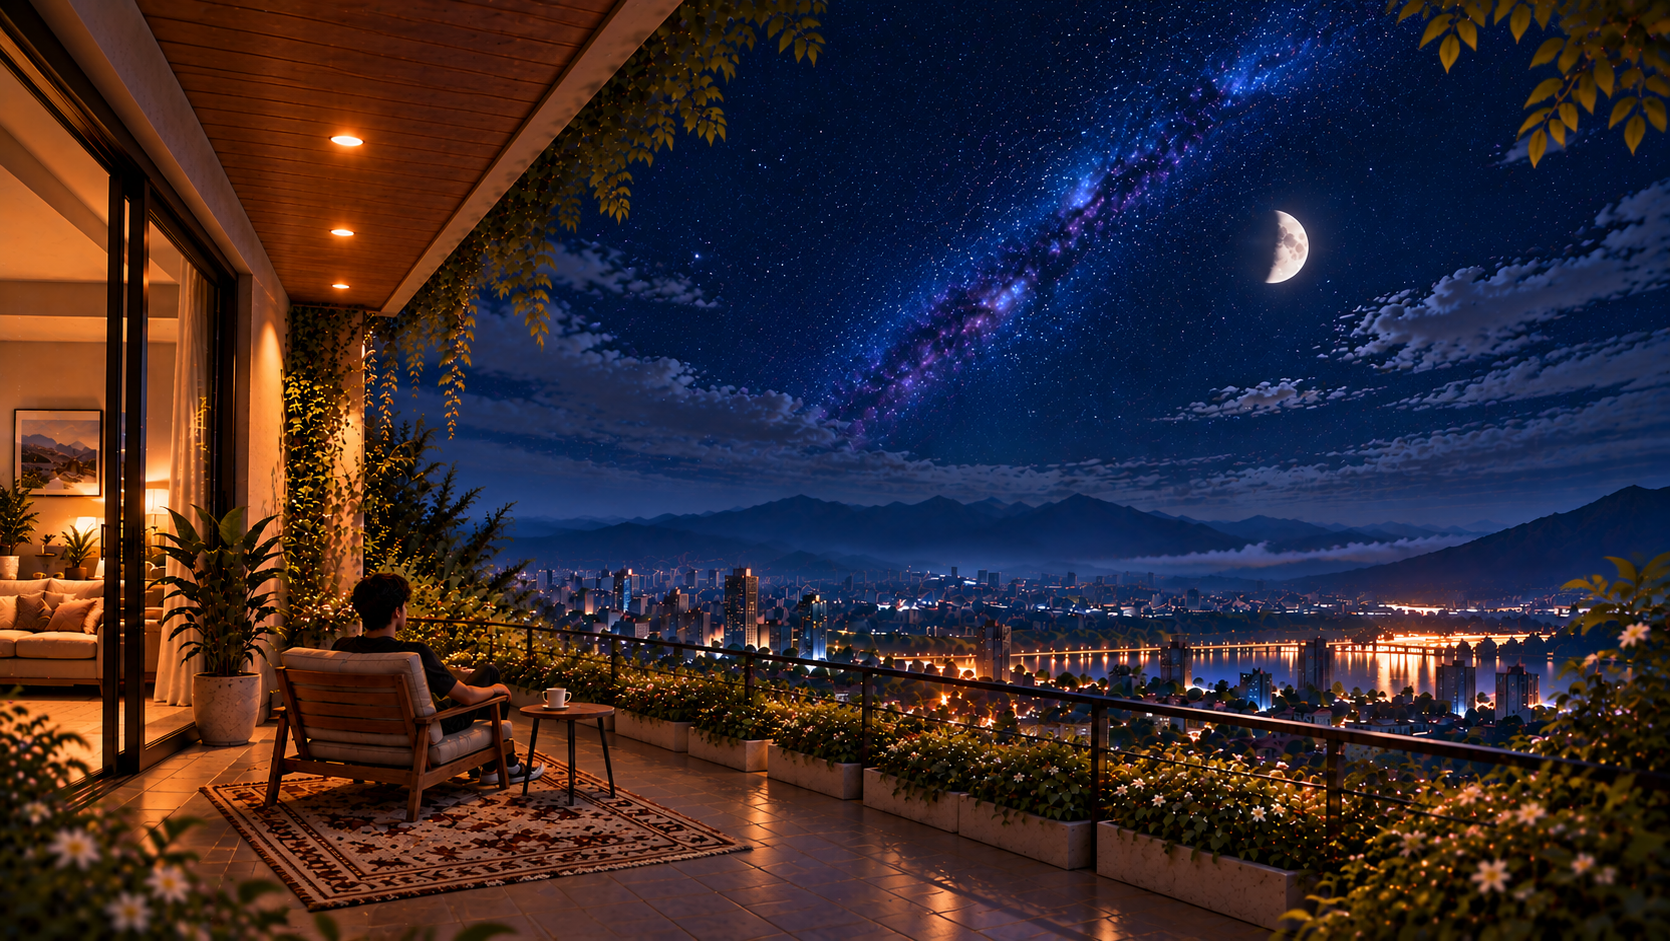
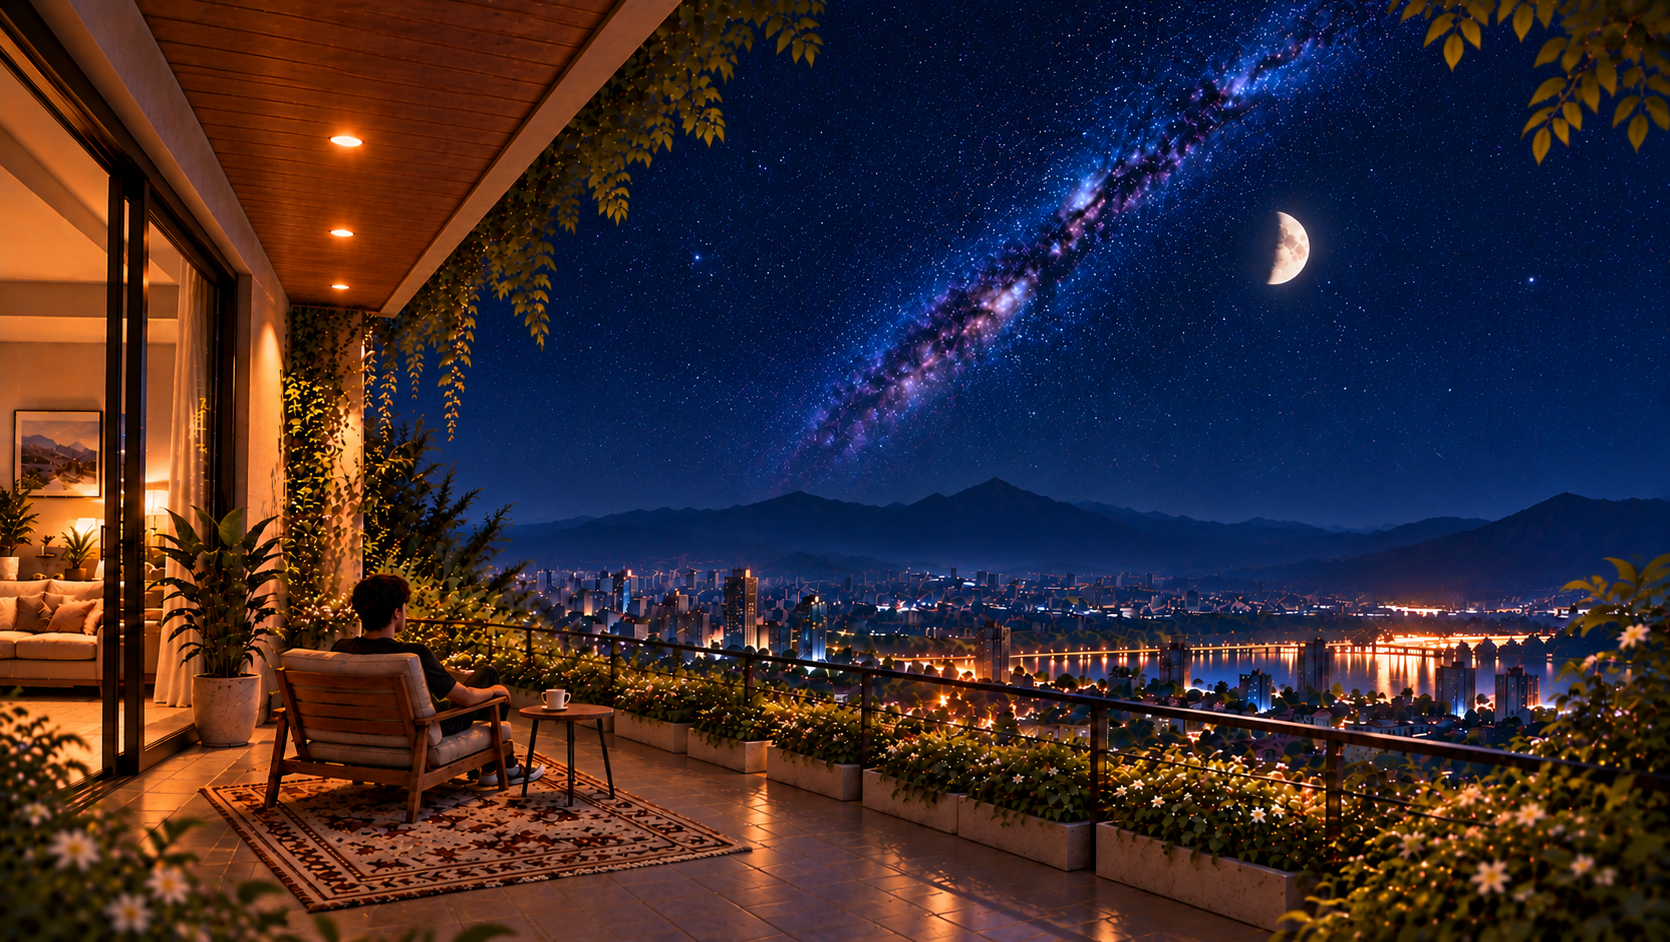
Add rainy & thunderstorm weather themes

diff --git a/dist/output.css b/dist/output.css
@@ -226,74 +226,158 @@ body {
 }
 .theme-clear-sunrise {
   background-image: url('../assets/images/ClearSunriseMobileBg.png');
-  @media (width >= 64rem) {
+  @media (width >= 80rem) {
     background-image: url('../assets/images/ClearSunriseDesktopBg.png');
   }
 }
 .theme-clear-morning {
   background-image: url('../assets/images/ClearMorningMobileBg.png');
-  @media (width >= 64rem) {
+  @media (width >= 80rem) {
     background-image: url('../assets/images/ClearMorningDesktopBg.png');
   }
 }
 .theme-clear-afternoon {
   background-image: url('../assets/images/ClearAfternoonMobileBg.png');
-  @media (width >= 64rem) {
-    background-image: url('../assets/images/ClearAfternoonDesktopBg.png');
+  @media (width >= 80rem) {
+    background-image: url('../assets/images/ClearAfternoonDesktopBg2.png');
   }
 }
 .theme-clear-evening {
   background-image: url('../assets/images/ClearEveningMobileBg.png');
-  @media (width >= 64rem) {
+  @media (width >= 80rem) {
     background-image: url('../assets/images/ClearEveningDesktopBg.png');
   }
 }
 .theme-clear-sunset {
   background-image: url('../assets/images/ClearSunsetMobileBg.png');
-  @media (width >= 64rem) {
+  @media (width >= 80rem) {
     background-image: url('../assets/images/ClearSunsetDesktopBg.png');
   }
 }
 .theme-clear-night {
   background-image: url('../assets/images/ClearNightMobileBG.png');
-  @media (width >= 64rem) {
+  @media (width >= 80rem) {
     background-image: url('../assets/images/ClearNightDesktopBg.png');
   }
 }
 .theme-cloudy-sunrise {
   background-image: url('../assets/images/CloudySunriseMobileBg.png');
-  @media (width >= 64rem) {
+  @media (width >= 80rem) {
     background-image: url('../assets/images/CloudySunriseDesktopBg.png');
   }
 }
 .theme-cloudy-morning {
   background-image: url('../assets/images/CloudyMorningMobileBg.png');
-  @media (width >= 64rem) {
+  @media (width >= 80rem) {
     background-image: url('../assets/images/CloudyMorningDesktopBg.png');
   }
 }
 .theme-cloudy-afternoon {
   background-image: url('../assets/images/CloudyAfternoonMobileBg.png');
-  @media (width >= 64rem) {
+  @media (width >= 80rem) {
     background-image: url('../assets/images/CloudyAfternoonDesktopBg.png');
   }
 }
 .theme-cloudy-evening {
   background-image: url('../assets/images/CloudyEveningMobileBg.png');
-  @media (width >= 64rem) {
+  @media (width >= 80rem) {
     background-image: url('../assets/images/CloudyEveningDesktopBg.png');
   }
 }
 .theme-cloudy-sunset {
   background-image: url('../assets/images/CloudySunsetMobileBg.png');
-  @media (width >= 64rem) {
+  @media (width >= 80rem) {
     background-image: url('../assets/images/CloudySunsetDesktopBg.png');
   }
 }
 .theme-cloudy-night {
   background-image: url('../assets/images/CloudyNightMobileBg.png');
-  @media (width >= 64rem) {
+  @media (width >= 80rem) {
     background-image: url('../assets/images/CloudyNightDesktopBg.png');
+  }
+}
+.theme-rainy-sunrise {
+  background-image: url('../assets/images/RainySunriseMobileBg.png');
+  @media (width >= 80rem) {
+    background-image: url('../assets/images/RainySunriseDesktopBg.png');
+  }
+}
+.theme-rainy-morning {
+  background-image: url('../assets/images/RainyMorningMobileBg.png');
+  @media (width >= 80rem) {
+    background-image: url('../assets/images/RainyMorningDesktopBg.png');
+  }
+}
+.theme-rainy-afternoon {
+  background-image: url('../assets/images/RainyAfternoonMobileBg.png');
+  @media (width >= 80rem) {
+    background-image: url('../assets/images/RainyAfternoonDesktopBg.png');
+  }
+}
+.theme-rainy-evening {
+  background-image: url('../assets/images/RainyEveningMobileBg.png');
+  @media (width >= 80rem) {
+    background-image: url('../assets/images/RainyEveningDesktopBg.png');
+  }
+}
+.theme-rainy-sunset {
+  background-image: url('../assets/images/RainySunsetMobileBg.png');
+  @media (width >= 80rem) {
+    background-image: url('../assets/images/RainySunsetDesktopBg.png');
+  }
+}
+.theme-rainy-night {
+  background-image: url('../assets/images/RainyNightMobileBg.png');
+  @media (width >= 80rem) {
+    background-image: url('../assets/images/RainyNightDesktopBg.png');
+  }
+}
+.theme-thunderstorm-sunrise {
+  background-image: url('../assets/images/ThunderstormSunriseMobileBg.png');
+  @media (width >= 80rem) {
+    background-image: url('../assets/images/ThunderstormSunriseDesktopBg.png');
+  }
+}
+.theme-thunderstorm-morning {
+  background-image: url('../assets/images/ThunderstormMorningMobileBg.png');
+  @media (width >= 80rem) {
+    background-image: url('../assets/images/ThunderstormMorningDesktopBg.png');
+  }
+}
+.theme-thunderstorm-afternoon {
+  background-image: url('../assets/images/ThunderstormAfternoonMobileBg.png');
+  @media (width >= 80rem) {
+    background-image: url('../assets/images/ThunderstormAfternoonDesktopBg.png');
+  }
+}
+.theme-thunderstorm-evening {
+  background-image: url('../assets/images/ThunderstormEveningMobileBg.png');
+  @media (width >= 80rem) {
+    background-image: url('../assets/images/ThunderstormEveningDesktopBg.png');
+  }
+}
+.theme-thunderstorm-sunset {
+  background-image: url('../assets/images/ThunderstormSunsetMobileBg.png');
+  @media (width >= 80rem) {
+    background-image: url('../assets/images/ThunderstormSunsetDesktopBg.png');
+  }
+}
+.theme-thunderstorm-night {
+  background-image: url('../assets/images/ThunderstormNightMobileBg.png');
+  @media (width >= 80rem) {
+    background-image: url('../assets/images/ThunderstormNightDesktopBg.png');
+  }
+}
+.theme-mist-sunrise {
+  background-image: url('../assets/images/MistSunriseMobileBg.png');
+  @media (width >= 80rem) {
+    background-image: url('../assets/images/MistSunriseDesktopBg.png');
+  }
+}
+.theme-mist-morning {
+  background-image: url('../assets/images/MistMorningMobileBg.png');
+  @media (width >= 80rem) {
+    background-image: url('../assets/images/MistMorningDesktopBg.png');
   }
 }
 header {

diff --git a/src/input.css b/src/input.css
@@ -18,75 +18,168 @@ body {
 /* sunrise - clear */
 .theme-clear-sunrise {
     @apply bg-[url('../assets/images/ClearSunriseMobileBg.png')]
-    lg:bg-[url('../assets/images/ClearSunriseDesktopBg.png')];
+    xl:bg-[url('../assets/images/ClearSunriseDesktopBg.png')];
 }
 
 /* morning - clear */
 .theme-clear-morning {
     @apply bg-[url('../assets/images/ClearMorningMobileBg.png')]
-    lg:bg-[url('../assets/images/ClearMorningDesktopBg.png')];
+    xl:bg-[url('../assets/images/ClearMorningDesktopBg.png')];
 }
 
 /* afternoon - clear */
 .theme-clear-afternoon {
     @apply bg-[url('../assets/images/ClearAfternoonMobileBg.png')]
-    lg:bg-[url('../assets/images/ClearAfternoonDesktopBg.png')];
+    xl:bg-[url('../assets/images/ClearAfternoonDesktopBg2.png')];
 }
 
 /* evening - clear */
 .theme-clear-evening {
     @apply bg-[url('../assets/images/ClearEveningMobileBg.png')]
-    lg:bg-[url('../assets/images/ClearEveningDesktopBg.png')];
+    xl:bg-[url('../assets/images/ClearEveningDesktopBg.png')];
 }
 
 /* sunset - clear */
 .theme-clear-sunset {
     @apply bg-[url('../assets/images/ClearSunsetMobileBg.png')]
-    lg:bg-[url('../assets/images/ClearSunsetDesktopBg.png')];
+    xl:bg-[url('../assets/images/ClearSunsetDesktopBg.png')];
 }
 
 /* night - clear */
 .theme-clear-night {
     @apply bg-[url('../assets/images/ClearNightMobileBG.png')]
-    lg:bg-[url('../assets/images/ClearNightDesktopBg.png')];
+    xl:bg-[url('../assets/images/ClearNightDesktopBg.png')];
 }
+
+
 
 /* sunrise - cloudy */
 .theme-cloudy-sunrise {
     @apply bg-[url('../assets/images/CloudySunriseMobileBg.png')]
-    lg:bg-[url('../assets/images/CloudySunriseDesktopBg.png')];
+    xl:bg-[url('../assets/images/CloudySunriseDesktopBg.png')];
 }
 
 /* morning - cloudy */
 .theme-cloudy-morning {
     @apply bg-[url('../assets/images/CloudyMorningMobileBg.png')]
-    lg:bg-[url('../assets/images/CloudyMorningDesktopBg.png')];
+    xl:bg-[url('../assets/images/CloudyMorningDesktopBg.png')];
 }
 
 /* afternoon - cloudy */
 .theme-cloudy-afternoon {
     @apply bg-[url('../assets/images/CloudyAfternoonMobileBg.png')]
-    lg:bg-[url('../assets/images/CloudyAfternoonDesktopBg.png')];
+    xl:bg-[url('../assets/images/CloudyAfternoonDesktopBg.png')];
 }
 
 /* evening - cloudy */
 .theme-cloudy-evening {
     @apply bg-[url('../assets/images/CloudyEveningMobileBg.png')]
-    lg:bg-[url('../assets/images/CloudyEveningDesktopBg.png')];
+    xl:bg-[url('../assets/images/CloudyEveningDesktopBg.png')];
 }
 
 /* sunset - cloudy */
 .theme-cloudy-sunset {
     @apply bg-[url('../assets/images/CloudySunsetMobileBg.png')]
-    lg:bg-[url('../assets/images/CloudySunsetDesktopBg.png')];
+    xl:bg-[url('../assets/images/CloudySunsetDesktopBg.png')];
 }
 
 /* night - cloudy */
 .theme-cloudy-night {
     @apply bg-[url('../assets/images/CloudyNightMobileBg.png')]
-    lg:bg-[url('../assets/images/CloudyNightDesktopBg.png')];
+    xl:bg-[url('../assets/images/CloudyNightDesktopBg.png')];
 }
 
+
+
+/* sunrise - rainy */
+.theme-rainy-sunrise {
+    @apply bg-[url('../assets/images/RainySunriseMobileBg.png')]
+    xl:bg-[url('../assets/images/RainySunriseDesktopBg.png')];
+}
+
+/* morning - rainy */
+.theme-rainy-morning {
+    @apply bg-[url('../assets/images/RainyMorningMobileBg.png')]
+    xl:bg-[url('../assets/images/RainyMorningDesktopBg.png')];
+}
+
+/* afternoon - rainy */
+.theme-rainy-afternoon {
+    @apply bg-[url('../assets/images/RainyAfternoonMobileBg.png')]
+    xl:bg-[url('../assets/images/RainyAfternoonDesktopBg.png')];
+}
+
+/* evening - rainy */
+.theme-rainy-evening {
+    @apply bg-[url('../assets/images/RainyEveningMobileBg.png')]
+    xl:bg-[url('../assets/images/RainyEveningDesktopBg.png')];
+}
+
+/* sunset - rainy */
+.theme-rainy-sunset {
+    @apply bg-[url('../assets/images/RainySunsetMobileBg.png')]
+    xl:bg-[url('../assets/images/RainySunsetDesktopBg.png')];
+}
+
+/* night - rainy */
+.theme-rainy-night {
+    @apply bg-[url('../assets/images/RainyNightMobileBg.png')]
+    xl:bg-[url('../assets/images/RainyNightDesktopBg.png')];
+}
+
+
+
+/* thunderstorm - sunrise */
+.theme-thunderstorm-sunrise {
+    @apply bg-[url('../assets/images/ThunderstormSunriseMobileBg.png')]
+    xl:bg-[url('../assets/images/ThunderstormSunriseDesktopBg.png')];
+}
+
+/* thunderstorm - morning */
+.theme-thunderstorm-morning {
+    @apply bg-[url('../assets/images/ThunderstormMorningMobileBg.png')]
+    xl:bg-[url('../assets/images/ThunderstormMorningDesktopBg.png')];
+}
+
+/* thunderstorm - afternoon */
+.theme-thunderstorm-afternoon {
+    @apply bg-[url('../assets/images/ThunderstormAfternoonMobileBg.png')]
+    xl:bg-[url('../assets/images/ThunderstormAfternoonDesktopBg.png')];
+}
+
+/* thunderstorm - evening */
+.theme-thunderstorm-evening {
+    @apply bg-[url('../assets/images/ThunderstormEveningMobileBg.png')]
+    xl:bg-[url('../assets/images/ThunderstormEveningDesktopBg.png')];
+}
+
+/* thunderstorm - sunset */
+.theme-thunderstorm-sunset {
+    @apply bg-[url('../assets/images/ThunderstormSunsetMobileBg.png')]
+    xl:bg-[url('../assets/images/ThunderstormSunsetDesktopBg.png')];
+}
+
+/* thunderstorm - night */
+.theme-thunderstorm-night {
+    @apply bg-[url('../assets/images/ThunderstormNightMobileBg.png')]
+    xl:bg-[url('../assets/images/ThunderstormNightDesktopBg.png')];
+}
+
+
+
+/* mist - sunrise */
+.theme-mist-sunrise {
+    @apply bg-[url('../assets/images/MistSunriseMobileBg.png')]
+    xl:bg-[url('../assets/images/MistSunriseDesktopBg.png')];
+}
+
+/* mist - morning */
+.theme-mist-morning {
+    @apply bg-[url('../assets/images/MistMorningMobileBg.png')]
+    xl:bg-[url('../assets/images/MistMorningDesktopBg.png')];
+}
+
+/* header */
 header {
     @apply p-2
     bg-linear-to-br

diff --git a/index.html b/index.html
@@ -18,7 +18,7 @@
         }
     </style>
 </head>
-<body class="theme-cloudy-night">
+<body class="theme-mist-morning">
     <header>
         <div>
             <h1>SkySight</h1>
